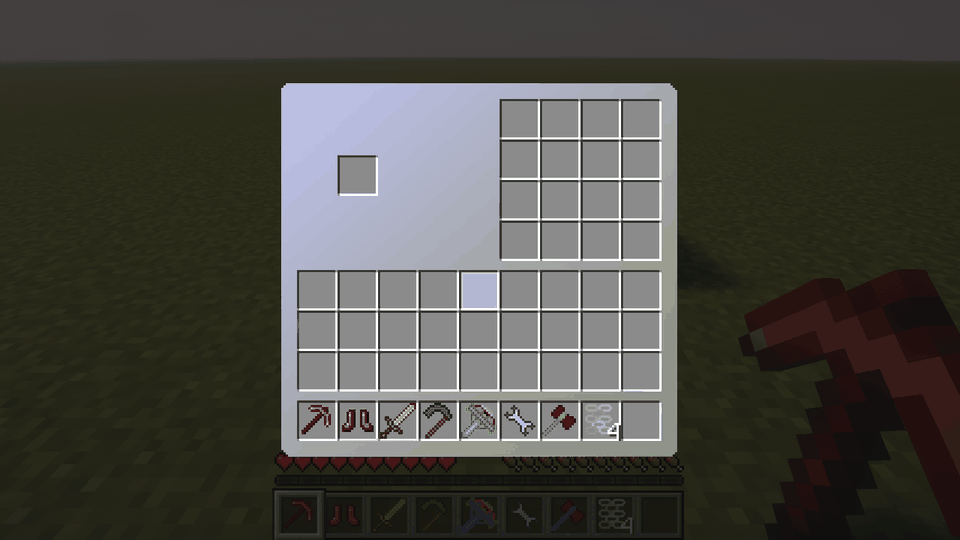
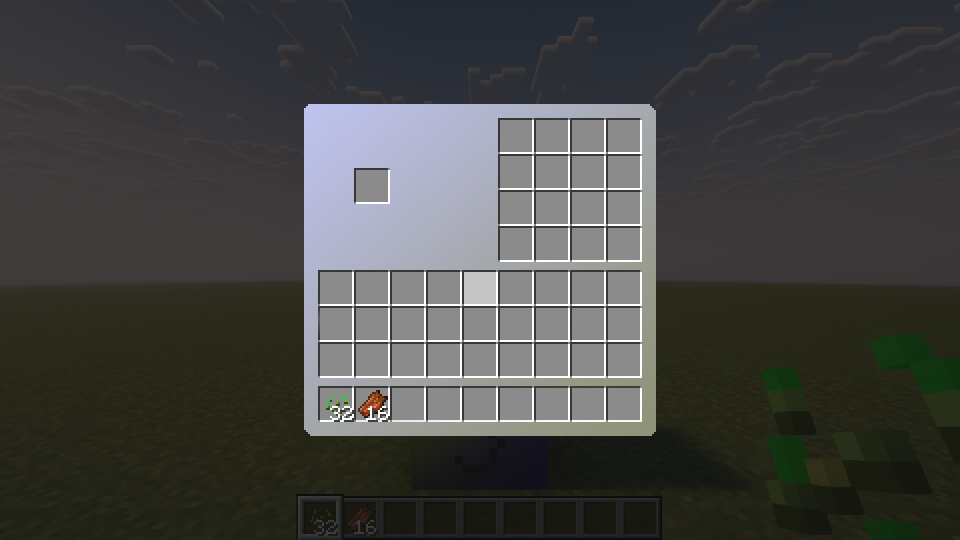
Old versions client round 2: 1.5.2 entity string textures bound by Render, AE1 lang by class path, RedLogic (wire field order, AssertionError in tile entity creation), System.exit from legacy mods ignored (Counter Craft), screenshots, ratings and Estimate notes
Claude-Session: https://claude.ai/code/session_013WYWcbTXcR9yZDGwQA1imZ

diff --git a/src/main/java/org/kylepitcock/legacyconnector/compat/jdk/JdkCompat.java b/src/main/java/org/kylepitcock/legacyconnector/compat/jdk/JdkCompat.java
@@ -78,8 +78,16 @@ public final class JdkCompat {
         return new IllegalStateException("Legacy mod requested the game to exit (code " + code + "); the mod is disabled instead");
     }
 
+    private static final java.util.Set<String> EXIT_CALLERS = java.util.concurrent.ConcurrentHashMap.newKeySet();
+
+    /**
+     * {@code System.exit} from a legacy mod: ignored, and the mod carries on. Mods call it for their own reasons (Counter Craft exits when more than five mods are
+     * loaded, an anti-modpack check that no pack satisfies) and the game must not end; unwinding the mod's call instead would abandon its client setup half way.
+     */
     public static void exit(int code) {
-        throw exitRequested(code);
+        StackTraceElement[] stack = new Throwable().getStackTrace();
+        String caller = stack.length > 1 ? stack[1].getClassName() + "." + stack[1].getMethodName() : "?";
+        if (EXIT_CALLERS.add(caller)) LOG.warn("Legacy code called System.exit({}) from {}; ignored, the mod carries on", code, caller);
     }
 
     /** {@code result}, or {@code fallback} when the result is null or empty (see the loader's UpdateCheckFix). */

diff --git a/src/main/java/legacyconnector/v1_7_10/net/minecraft/client/renderer/entity/Render.java b/src/main/java/legacyconnector/v1_7_10/net/minecraft/client/renderer/entity/Render.java
@@ -20,7 +20,10 @@ public abstract class Render {
     protected abstract ResourceLocation getEntityTexture(Entity entity);
 
     protected void bindEntityTexture(Entity entity) {
-        bindTexture(getEntityTexture(entity));
+        // Minecraft 1.5.2 and older: a mod entity names its texture by path ("texture" field / getTexture()); it wins over the renderer's default
+        String legacy = entity instanceof legacyconnector.v1_7_10.net.minecraft.entity.EntityLivingBase living ? living.getTexture() : null;
+        if (legacy != null && legacy != legacyconnector.v1_7_10.net.minecraft.entity.EntityLivingBase.DEFAULT_TEXTURE) loadTexture(legacy);
+        else bindTexture(getEntityTexture(entity));
     }
 
     protected void bindTexture(ResourceLocation location) {

diff --git a/src/main/java/org/kylepitcock/legacyconnector/v1_7_10/adapter/LegacyBlockEntity.java b/src/main/java/org/kylepitcock/legacyconnector/v1_7_10/adapter/LegacyBlockEntity.java
@@ -50,7 +50,7 @@ public class LegacyBlockEntity extends BlockEntity implements org.kylepitcock.le
                     if (!block.hasTileEntity(LegacyBlockAdapter.metaOf(getBlockState()))) return null;
                     legacy = block.createTileEntity(level != null ? World.mcc$wrap(level) : fallback, LegacyBlockAdapter.metaOf(getBlockState()));
                 }
-            } catch (RuntimeException | LinkageError e) {
+            } catch (RuntimeException | LinkageError | AssertionError e) {
                 // A tile entity that cannot be created must not take the server down (this runs while chunks are sent
                 // and saved): the block stays, without its tile entity.
                 createFailed = true;

diff --git a/src/main/java/legacyconnector/v1_7_10/net/minecraft/entity/EntityLivingBase.java b/src/main/java/legacyconnector/v1_7_10/net/minecraft/entity/EntityLivingBase.java
@@ -9,7 +9,9 @@ import net.minecraft.world.entity.LivingEntity;
 
 public abstract class EntityLivingBase extends Entity {
     /** Minecraft 1.5.2 and older: the entity's texture as a string path (read by {@code RenderLiving}, see Textures152). */
-    public String texture = "/mob/char.png";
+    public String texture = DEFAULT_TEXTURE;
+    /** The default of {@link #texture}, compared by identity: a mod that sets its own path makes {@code Render} use it. */
+    public static final String DEFAULT_TEXTURE = new String("/mob/char.png");
 
     /** Minecraft 1.5.2: overridable by mods that switch texture at run time. */
     public String getTexture() {

diff --git a/src/main/java/legacyconnector/v1_7_10/net/minecraft/block/BlockRedstoneWire.java b/src/main/java/legacyconnector/v1_7_10/net/minecraft/block/BlockRedstoneWire.java
@@ -6,6 +6,12 @@ package legacyconnector.v1_7_10.net.minecraft.block;
  * Regenerate with tools/gen_vanilla_shims.py; replace with a hand-written class to add behaviour.
  */
 public class BlockRedstoneWire extends legacyconnector.v1_7_10.net.minecraft.block.Block {
+    /**
+     * Vanilla's first declared field ({@code field_150181_a}, 1.5.2 {@code wiresProvidePower}); RedLogic reads it as {@code getDeclaredFields()[0]} and asserts its
+     * type. Keep it first.
+     */
+    private boolean wiresProvidePower = true;
+
     public BlockRedstoneWire(org.kylepitcock.legacyconnector.v1_7_10.bridge.VanillaInfo info) {
         super(info);
     }

diff --git a/src/main/java/legacyconnector/v1_7_10/cpw/mods/fml/common/registry/LanguageRegistry.java b/src/main/java/legacyconnector/v1_7_10/cpw/mods/fml/common/registry/LanguageRegistry.java
@@ -52,7 +52,8 @@ public class LanguageRegistry {
     }
 
     public void loadLocalization(String localizationFile, String lang, boolean isXML) {
-        java.io.InputStream in = LanguageRegistry.class.getResourceAsStream(localizationFile);
+        // mods name their own files by class path (1.5.2: "/mods/appeng/lang/en_US.properties"); they live in other jars than the shim
+        java.io.InputStream in = org.kylepitcock.legacyconnector.compat.jdk.ResourceCompat.getResourceAsStream(LanguageRegistry.class, localizationFile);
         if (in == null) return;
         mcc$load(in, lang, isXML);
     }

diff --git a/docs/screenshots/old-versions/README.md b/docs/screenshots/old-versions/README.md
@@ -40,9 +40,10 @@ Real client (NeoForge 1.21.1, superflat), survival mode for the actions (craftin
 |---|---|---|---|
 | `1.5.2/resource-engineering-blocks-shaders.png` | Resource Engineering 0.5.3 | Gem blocks (ruby, emerald, citrine...) and its machines (composter, pressure vessel, fracker, Thor chest) | Partly working |
 | `1.5.2/resource-engineering-tools-survival-shaders.png` | Resource Engineering, Applied Energistics | Survival hotbar with ruby pickaxe, boots, citrine sword, scythe, hammer and chain mesh in front of AE1 blocks | Partly working |
-| `1.5.2/resource-engineering-composter-gui-shaders.png` | Resource Engineering | The composter screen opened by right-click (container works; the mod's own GUI background is missing) | Partly working |
+| `1.5.2/resource-engineering-composter-gui-shaders.png` | Resource Engineering | The composter screen opened by right-click with seeds and flesh in the hotbar: the mod's own background (it reuses `sifterGUI.png`) and items on their slots. (The earlier note of a missing background was wrong; the Thor chest's item mismatch is the mod's own server/client container mismatch) | Works |
 | `1.5.2/applied-energistics-1-blocks-shaders.png` | Applied Energistics rv14 (AE1) | Its blocks (grinder, terminals, ore, crafting grid) with their textures | Partly working |
-| `1.5.2/twilight-forest-mobs-shaders.png` | The Twilight Forest 1.5.2 | A boar and a bighorn sheep summoned; the mod's init failed on a render class so they use vanilla models | Partly working |
+| `1.5.2/twilight-forest-mobs-shaders.png` | The Twilight Forest 1.5.2 | Penguin, bighorn sheep and wild boar with the mod's own models and skins (init no longer fails on `new RenderLiving(model, shadow)`; the entity's string texture is bound) | Works |
+| `1.5.2/applied-energistics-1-machines-shaders.png` | Applied Energistics rv14 (AE1) | Its terminal, chest, drive, crafting and interface blocks in a row; the mod's lang file now loads (the no-controller message reads "Unable to communicate with controller.") | Partly working |
 
 ### 1.6.4
 
@@ -54,9 +55,15 @@ Real client (NeoForge 1.21.1, superflat), survival mode for the actions (craftin
 | `1.6.4/tragicmc-mobs-kitsune-boss-shaders.png` | TragicMC | Kitsune boss (with boss bar), troll, wraith, minotaur | Works |
 | `1.6.4/tragicmc-troll-death-survival-shaders.png` | TragicMC | Survival: the player killed by the troll; death message uses the mob's name | Works |
 | `1.6.4/kitchens-icebox-gui-shaders.png` | Kitchens | The icebox container screen | Works |
-| `1.6.4/counter-craft-bench-screen-shaders.png` | Counter Craft | Right-click on the bench: a full-screen logo splash instead of a crafting screen | Partly working |
+| `1.6.4/counter-craft-bench-menu-shaders.png` | Counter Craft | Right-click on the bench: the mod's own menu (Play, Inventory, Community; "Cloud offline" since the mod is an online lobby). The earlier logo splash was the intro of a menu whose client setup had been aborted by the mod's System.exit check (now ignored) | Works (offline) |
+| `1.6.4/the-lion-king-mobs-shaders.png` | The Lion King Mod | A lion, a giraffe and a rhino: the client now stays connected (the mod's `connectionReceived` returned an empty string, which the layer took as a kick) | Works |
+| `1.6.4/mad-science-machines-and-gmo-cows-shaders.png` | Mad Science | Cryofreezer, genome sequencer, mainframe, voxbox, CNC machine drawn with Techne models, and a GMO wooly cow (the mod's `loadInstance(String, URL)` loader now links) | Works |
+| `1.6.4/applied-energistics-rv14-and-lion-king-blocks-shaders.png` | Applied Energistics rv14.finale3, The Lion King Mod | AE blocks (loads without IC2) and Lion King blocks (altar, hyena head, peacock block, pridestone brick, termite mound) | Partly working (AE), Works (Lion King) |
+| `1.6.4/power-of-the-elements-titans-shaders.png` | Power of the Elements | Ice, fire and air titans and a soldier summoned: all draw with the mod's skins | Works |
 | `1.6.4/power-of-the-elements-hammer-and-soldier.png` | Power of the Elements | Survival hotbar (lightning hammer, earth chestplate, blocks) and a soldier mob in the distance; no shaders | Works |
 | `1.6.4/power-of-the-elements-electric-and-lightning-blocks.png` | Power of the Elements | Electric and lightning blocks placed in survival; no shaders | Works |
 
-Findings: The Lion King Mod makes the client disconnect right after joining (empty reason); Mad Science, Applied Energistics rv14.finale3 (1.6.4) and RedLogic (1.5.2) fail to load in a client session
-(details in `docs/data/mods.json`).
+Findings of the first round and their causes (fixed in the second round, details in `docs/data/mods.json`): The Lion King Mod's disconnect was `connectionReceived` returning an empty string; Mad Science
+implements the 1.6.4 `IModelCustomLoader.loadInstance(String, URL)`; Applied Energistics rv14.finale3 needed absent IC2 types stubbed; RedLogic needs Immibis Microblocks next to Immibis Core
+(and read `BlockRedstoneWire.getDeclaredFields()[0]`); Counter Craft calls `System.exit` when more than five mods are loaded; Twilight Forest 1.5.2 instantiates the concrete `RenderLiving`;
+Applied Energistics 1 loads its lang file by class path. Resource Engineering's Thor chest mismatch is the mod's own (its server handler builds the backpack container).

diff --git a/docs/wiki/Legacy-1.6.4-Estimate.md b/docs/wiki/Legacy-1.6.4-Estimate.md
@@ -115,3 +115,13 @@ Offline link check (`checkLegacyMod`) over `test-mods-164` (98 jars with `old-on
 
 Replaced by real behaviour: `Entity.dropItem(id, n)`, fire tables (`Block.blockFlammability`, metadata shaped `isFlammable`/`getFireSpreadSpeed`), `MapGenBase` over block ids (`generate(byte[])`, `recursiveGenerate(byte[])` overrides), `EnchantmentThorns` statics, ops/whitelist/login members by name, grass plants, chat events as strings, the old packet classes (open window, window click, respawn, place, entity moves, map chunk wire format), int health / `moveSpeed` / `getMaxHealth()` / `initCreature` for 1.5.2 and 1.4.7 mobs, absolute AI speeds converted to multipliers, and numeric widening in the constructor adaptation (a float argument no longer becomes a defaulted double).
 Left: bundled copies of NEI/Waila API classes (unresolved), Scala library members, client rendering members (`MapItemRenderer`, `ThreadDownloadImageData`), texture classes of 1.4.7 (another agent), notch-named jars (BTW), `EntityAIDoorInteract`, Tinkers' `stats.player` (needs a runtime trace).
+
+## Client survival round, second pass (2026-11-07)
+
+Fixes from the first real-client round (screenshots in `docs/screenshots/old-versions/1.6.4`):
+
+- **The Lion King Mod**: the client was kicked ~100 ms after joining with an empty reason. Its `IConnectionHandler.connectionReceived` returns `""` for accepted; `Players164` treated any non-null result as a refusal. Null or empty accepts now (as FML's `Strings.isNullOrEmpty`).
+- **Mad Science**: 1.6.4's `IModelCustomLoader` is `loadInstance(String, URL)`; the 1.7.10 shim declares `loadInstance(ResourceLocation)`. The interface has both as defaults (the ResourceLocation form builds a URL that reads through the mods' resource lookup and calls the 1.6.4 form).
+- **Applied Energistics rv14.finale3**: `ElectricTool.getManager` returns `this` as IC2's absent `IElectricItemManager`; the verifier loads the type for that check, so the class failed. `AbsentDependencyStubber` now stubs an `areturn` in a method whose return type is absent (unless it returns null or a parameter of that type).
+- **Counter Craft**: calls `System.exit(0)` when more than five mods are listed (Forge, FML, mcp, Minecraft and bridged libraries count). The layer turned that into an exception that aborted the client setup half way (the "logo splash" bench was the mod's intro of a menu that never finished loading). `System.exit` from a legacy mod is now ignored (logged once per caller) and the mod carries on; the bench opens the mod's own menu (an online lobby: "Cloud offline").
+- **Power of the Elements**: the ice, fire and air titans draw with their skins; the first round's "did not show" could not be reproduced.

diff --git a/docs/wiki/Legacy-1.5.2-Estimate.md b/docs/wiki/Legacy-1.5.2-Estimate.md
@@ -58,3 +58,12 @@ BTW is not a Forge mod; it is a patched Minecraft. The zip holds `MINECRAFT-JAR/
 - What would work instead: a BTW-inspired Forge mod rewrite is a different mod. Nothing of BTW renders here, so there is no screenshot.
 
 RedPower 2 has no 1.5.2 or 1.6.4 build in the corpus (the latest public builds are 2.0pr5/pr6 for 1.4.7; the modules are in `test-mods-147` and have screenshots under `docs/screenshots/old-versions/1.4.7`).
+
+## Client survival round, second pass (2026-11-07)
+
+Fixes from the first real-client round (screenshots in `docs/screenshots/old-versions/1.5.2`):
+
+- **Twilight Forest**: `new RenderLiving(model, shadow)` is concrete in 1.5.2; the shim's was abstract (InstantiationError during init). It is concrete now and `Render.bindEntityTexture` binds the entity's string texture (`EntityLiving.texture` / `getTexture()`, default compared by identity) before the renderer's default, so the boar, sheep, bunny and penguin draw with their own models and skins.
+- **Applied Energistics 1**: `LanguageRegistry.loadLocalization("/mods/appeng/lang/en_US.properties", ...)` read the path from the shim's own class loader; it goes through `ResourceCompat` (the mod's jar) now, so `ChatMsg.NoController` and the GUI strings translate.
+- **RedLogic**: needs Immibis Microblocks beside Immibis Core (a test-set omission). It reads `BlockRedstoneWire.class.getDeclaredFields()[0]` and asserts a boolean: the shim's wire now declares `wiresProvidePower` first; an `AssertionError` from a legacy tile entity constructor no longer escapes `LegacyBlockEntity.legacy()` (it crashed the server).
+- **Resource Engineering**: no layer defect found. The composter does draw the mod's background (it reuses `sifterGUI.png`; its foreground method has a wrong signature, no title in the real game either). The Thor chest's mismatch is the mod's: `GuiHandler.getServerGuiElement` builds a `ContainerBackpack` (53 slots), the client a `ContainerThorChest` (117).
